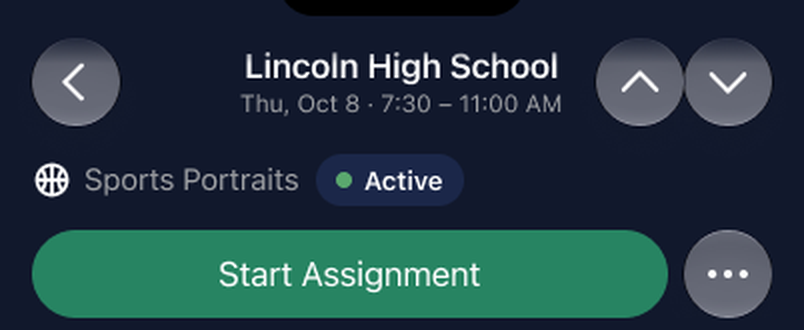
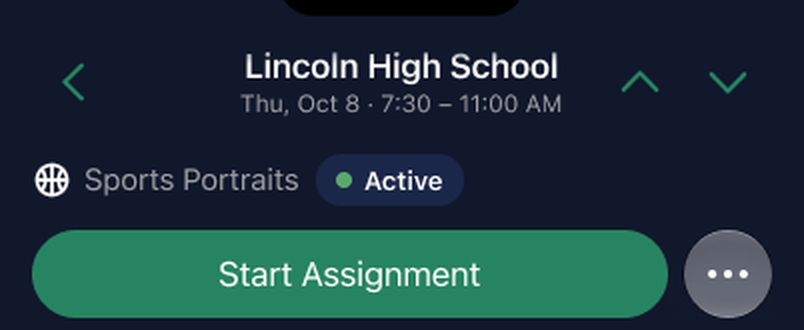
Nav buttons: no fill, accent glyphs (demo); design decisions change 9 rewritten
Claude-Session: https://claude.ai/code/session_019A1xMKmtKENcwVcnDpqGhs

Changed region(s): [[0.7152, 0.1212, 0.9639, 0.3939], [0.0311, 0.1212, 0.1555, 0.3939]]

diff --git a/web/design-decisions.html b/web/design-decisions.html
@@ -63,7 +63,7 @@ code{font:12.5px ui-monospace,SFMono-Regular,Menlo,monospace}
 <section class="pg sum"><h1>VIP Photographer App: design decisions</h1>
 <p class="by">Eight changes made to the Figma screens and the HTML demo, November 5 and 6, 2026. Each page gives the problem, the change, the rationale, the trade-off accepted, and old and new screenshots.</p>
 <p>The rationale on each page is what was discussed in the design sessions, with Alan making the call. Anything that was a judgement, such as breaking consistency, is called out as a trade-off. Measurements are from the Figma frames and the demo at phone size (874 pt screen); the claim that the secondary actions are rarely used on the day of the assignment is based on anecdotal feedback from stakeholders and has not been measured.</p>
-<div class="tw"><table><thead><tr><th>#</th><th>Change</th><th>Trade-off accepted</th><th>Decided by</th><th>Where</th></tr></thead><tbody><tr><td>1</td><td><a href="#c1">Secondary actions: menu behind the primary button, buttons when there is none</a></td><td>Urgent actions take two taps; location differs by day (consistency broken for coherence)</td><td>Alan</td><td>Figma, demo</td></tr><tr><td>2</td><td><a href="#c2">Header collapses on scroll</a></td><td>A quarter of the screen stays pinned; static, not animated</td><td>Alan</td><td>Figma, demo</td></tr><tr><td>3</td><td><a href="#c3">Icons on secondary actions</a></td><td>Decoration only; demo icons are look-alikes</td><td>Alan</td><td>Figma, demo</td></tr><tr><td>4</td><td><a href="#c4">Add note first on the Notes tab</a></td><td>Non-leads get no explanation</td><td>Alan</td><td>Figma, demo</td></tr><tr><td>5</td><td><a href="#c5">Section headings removed (demo)</a></td><td>Logged times card is unlabelled</td><td>Alan</td><td>Demo</td></tr><tr><td>6</td><td><a href="#c6">Map icon on Location row (demo)</a></td><td>None found</td><td>Alan</td><td>Demo</td></tr><tr><td>7</td><td><a href="#c7">Bordered button contrast</a></td><td>Light cards show outline only; override on two buttons, not the library</td><td>Alan</td><td>Figma, demo</td></tr><tr><td>8</td><td><a href="#c8">White label on green primary (Dark)</a></td><td>4.60:1 is a narrow pass; override on 68 labels</td><td>Alan</td><td>Figma</td></tr><tr><td>9</td><td><a href="#c9">Round icon buttons: darker fill (Dark)</a></td><td>Override on instances in the proposal frames, not the library; Light boundary still faint</td><td>Alan</td><td>Figma, demo</td></tr></tbody></table></div>
+<div class="tw"><table><thead><tr><th>#</th><th>Change</th><th>Trade-off accepted</th><th>Decided by</th><th>Where</th></tr></thead><tbody><tr><td>1</td><td><a href="#c1">Secondary actions: menu behind the primary button, buttons when there is none</a></td><td>Urgent actions take two taps; location differs by day (consistency broken for coherence)</td><td>Alan</td><td>Figma, demo</td></tr><tr><td>2</td><td><a href="#c2">Header collapses on scroll</a></td><td>A quarter of the screen stays pinned; static, not animated</td><td>Alan</td><td>Figma, demo</td></tr><tr><td>3</td><td><a href="#c3">Icons on secondary actions</a></td><td>Decoration only; demo icons are look-alikes</td><td>Alan</td><td>Figma, demo</td></tr><tr><td>4</td><td><a href="#c4">Add note first on the Notes tab</a></td><td>Non-leads get no explanation</td><td>Alan</td><td>Figma, demo</td></tr><tr><td>5</td><td><a href="#c5">Section headings removed (demo)</a></td><td>Logged times card is unlabelled</td><td>Alan</td><td>Demo</td></tr><tr><td>6</td><td><a href="#c6">Map icon on Location row (demo)</a></td><td>None found</td><td>Alan</td><td>Demo</td></tr><tr><td>7</td><td><a href="#c7">Bordered button contrast</a></td><td>Light cards show outline only; override on two buttons, not the library</td><td>Alan</td><td>Figma, demo</td></tr><tr><td>8</td><td><a href="#c8">White label on green primary (Dark)</a></td><td>4.60:1 is a narrow pass; override on 68 labels</td><td>Alan</td><td>Figma</td></tr><tr><td>9</td><td><a href="#c9">Back, previous, next: no fill, accent glyphs</a></td><td>Look less like buttons; Figma Dark accent is dim (3.83:1); override, not library</td><td>Alan</td><td>Figma, demo</td></tr></tbody></table></div>
 <p>Not yet tested: Dynamic Type at the largest sizes, VoiceOver, and a Figma frame for the assignment-day screen with the menu. Open library changes are in the Library change requests project doc.</p></section>
 <section class="pg" id="c1"><h2>1. Secondary actions: a menu behind the primary button, buttons when there is none</h2><dl class="meta"><dt>Problem</dt><dd>The pinned header was 350 pt tall, 40% of an 874 pt screen: type and status, the primary button, a row of 34 pt secondary buttons that wrapped (Timesheet dropped to a second line), and the tabs. Dynamic Type would make it taller still. On a future-dated assignment there is no primary button, so a menu alone would leave a lone &quot;…&quot; in an empty row.</dd><dt>Change</dt><dd>With a primary button, the header holds type and status, then one row with the primary button and a 44 × 44 pt More button, then the tabs. Can&#x27;t attend, Report issue and Timesheet move into the More menu (48 pt rows), and the Timesheet row card leaves the Details tab. With no primary button, Can&#x27;t attend and Report issue show as two 44 pt buttons side by side. Once an assignment is fully done, no secondary actions remain, so neither appears.</dd><dt>Options</dt><dd>(a) 44 pt buttons in one row, plus collapse on scroll: 318 pt at rest (36%), 224 pt scrolled (26%), but it grows as labels wrap at larger text sizes. (b) Always a menu: 256 pt (29%), 218 pt scrolled (25%), and the same height at any text size. (c) Visible before Start Assignment and a menu after: a row of Can&#x27;t attend and Report issue under the primary button, about 308 pt (35%) at rest, scrolling away to a 218 pt pinned header.</dd><dt>Rationale: menu</dt><dd>These actions are rarely used on the day of the assignment, so they should not take permanent space from the one action used every time. This is based on anecdotal feedback from stakeholders.</dd><dt>Rationale: buttons</dt><dd>With no primary button there is nothing for the actions to compete with, and there is room. A future assignment is also when cancelling matters most: a reassignment needs the most lead time.</dd><dt>The principle</dt><dd>Secondary actions never compete with the primary action. With a green primary button they sit behind a menu; without one they are shown. The same actions are in different places on different days, so consistency of location is broken on purpose, in favour of coherence: in every state the screen has one clear thing to do, and the lone &quot;…&quot; button would have hidden the only things left to do. (Wording drafted from the design discussion; to be confirmed by Alan.)</dd><dt>Trade-off</dt><dd>Can&#x27;t attend and Report issue are time-sensitive, and with a primary button they now take two taps and are not labelled on screen. The cost falls on few people. A person may also have to relearn where the actions are when a day changes state. Alan&#x27;s view is that urgent actions should be visible before the assignment starts, but in this design they are visible only the day before, when there is no primary button; from the assignment day until Start Assignment they are in the menu. Accepted to keep the header short. Fallback if testing shows they are hard to find: option (c), then (a), kept on the Figma proposal page as &quot;ALT visible row&quot;.</dd><dt>Decision</dt><dd>Alan chose the menu (b), and chose to show the buttons when there is no primary button. When asked whether to show the actions on the assignment day too (c), he kept the design as built.</dd><dt>Where</dt><dd>Figma: Proposal – Assignment header, including AFTER (no primary, future assignment). Demo: built. Evaluation: &quot;Proposal: Assignment header&quot;.</dd></dl><div class="row">Before</div><div class="ba"><figure><img src="decisions/img/hdr-before-light.png" alt="Light: 350 pt, Timesheet wraps"><figcaption>Light: 350 pt, Timesheet wraps</figcaption></figure><figure><img src="decisions/img/hdr-before-dark.png" alt="Dark"><figcaption>Dark</figcaption></figure></div><div class="row">Light: primary button, menu open, no primary</div><div class="ba"><figure><img src="decisions/img/hdr-menu-details-light.png" alt="With primary: 256 pt"><figcaption>With primary: 256 pt</figcaption></figure><figure><img src="decisions/img/hdr-menu-open-light.png" alt="Menu open"><figcaption>Menu open</figcaption></figure><figure><img src="decisions/img/hdr-nopri-light.png" alt="No primary: two buttons"><figcaption>No primary: two buttons</figcaption></figure></div><div class="row">Dark: the same three states</div><div class="ba"><figure><img src="decisions/img/hdr-menu-details-dark.png" alt="With primary"><figcaption>With primary</figcaption></figure><figure><img src="decisions/img/hdr-menu-open-dark.png" alt="Menu open"><figcaption>Menu open</figcaption></figure><figure><img src="decisions/img/hdr-nopri-dark.png" alt="No primary"><figcaption>No primary</figcaption></figure></div><div class="row">Demo, no primary</div><div class="ba"><figure><img src="decisions/img/demo-menuonly-light.png" alt="Before: empty row with only More"><figcaption>Before: empty row with only More</figcaption></figure><figure><img src="decisions/img/demo-nopri-light.png" alt="After: two buttons"><figcaption>After: two buttons</figcaption></figure></div></section>
 <section class="pg" id="c2"><h2>2. Header collapses on scroll</h2><dl class="meta"><dt>Problem</dt><dd>Even at 256 pt, the type and status row is not needed once the person has scrolled.</dd><dt>Change</dt><dd>The type and status row scrolls away. The primary row and the Details / Notes / Schedule tabs stay pinned: 218 pt in Figma, 215 px in the demo.</dd><dt>Options</dt><dd>Unpin the tabs: saves about 40 to 50 pt (5%), but switching views would mean scrolling back to the top, and Details is the long tab. Unpin the primary button: the pinned area drops to about 170 pt, but Start Assignment would scroll out of view.</dd><dt>Rationale</dt><dd>The tabs are the cheapest element and the one most likely to hurt if unpinned; the primary action is the one that must stay reachable.</dd><dt>Tradeoff</dt><dd>A pinned area of about a quarter of the screen remains. It collapses as a static state, not an animation.</dd><dt>Decision</dt><dd>Alan asked for the collapse in the demo after discussing the options.</dd><dt>Where</dt><dd>Figma: scrolled frames. Demo: built.</dd></dl><div class="row">Light and Dark</div><div class="ba "><figure><img src="decisions/img/hdr-before-light.png" alt="Before: pinned at 350 pt"><figcaption>Before: pinned at 350 pt</figcaption></figure><figure><img src="decisions/img/hdr-menu-scrolled-light.png" alt="After, scrolled (Light)"><figcaption>After, scrolled (Light)</figcaption></figure><figure><img src="decisions/img/hdr-menu-scrolled-dark.png" alt="After, scrolled (Dark)"><figcaption>After, scrolled (Dark)</figcaption></figure></div></section>
@@ -73,5 +73,5 @@ code{font:12.5px ui-monospace,SFMono-Regular,Menlo,monospace}
 <section class="pg" id="c6"><h2>6. Demo: map icon on the Location row</h2><dl class="meta"><dt>Problem</dt><dd>The demo showed a caret on the Location row. The PRD says &quot;Location, with an icon showing it is tappable&quot;, and Figma shows a map icon. The caret had been in the demo since its first commit.</dd><dt>Change</dt><dd>A map icon in the accent color, and the subtitle &quot;Location · opens Maps&quot; as in Figma. Tapping still opens the map picker.</dd><dt>Tradeoff</dt><dd>None found. The icon is a hand-drawn SVG that approximates SF Symbol map.</dd><dt>Decision</dt><dd>Alan noticed the difference.</dd><dt>Where</dt><dd>Demo only.</dd></dl><div class="row">Demo, Light</div><div class="ba"><figure><img class="crop" src="decisions/img/demo-caret-light.png" alt="Before: caret"><figcaption>Before: caret</figcaption></figure><figure><img class="crop" src="decisions/img/demo-map-light.png" alt="After: map icon"><figcaption>After: map icon</figcaption></figure></div></section>
 <section class="pg" id="c7"><h2>7. Button contrast: bordered fill</h2><dl class="meta"><dt>Problem</dt><dd>Green label text on the translucent grey bordered button measured 4.2:1 in Dark (on a card) and about 4.4:1 in Light, below the 4.5:1 AA target (findings 6 and 20).</dd><dt>Change</dt><dd>Figma proposal buttons: Dark fill 24% to 16% (label 5.1:1), Light fill 12% to 8% (4.65:1). Demo, Light only: bordered buttons are white with a hairline border (5.11:1), because no grey tint reaches 4.5:1 on the grey page. Demo Dark already passed.</dd><dt>Rationale</dt><dd>Lowering the fill keeps the grey button look and fixes the Dark half of finding 20.</dd><dt>Tradeoff</dt><dd>In Light, a bordered button inside a white card now reads as an outline. The Figma change is an override on the two proposal buttons only, because the Button component is in a library. Plain rows (Take photo, Choose from library) are not fixed by this; they need a lighter accent-text token. See the Library change requests doc.</dd><dt>Decision</dt><dd>Alan approved the fills.</dd><dt>Where</dt><dd>Figma: proposal frames. Demo: Light bordered buttons.</dd></dl><div class="row">Figma, Dark</div><div class="ba"><figure><img src="decisions/img/fig-fill24-dark.png" alt="Before: 24%"><figcaption>Before: 24%</figcaption></figure><figure><img src="decisions/img/fig-fill16-dark.png" alt="After: 16%"><figcaption>After: 16%</figcaption></figure></div><div class="row">Figma, Dark: the two buttons, zoomed</div><div class="ba"><figure><img class="crop zoom" src="decisions/img/zoom-fill24.png" alt="Before: 24% fill. Label 4.6:1 on the header, about 4.2:1 on a card"><figcaption>Before: 24% fill. Label 4.6:1 on the header, about 4.2:1 on a card</figcaption></figure><figure><img class="crop zoom" src="decisions/img/zoom-fill16.png" alt="After: 16% fill, darker. Label 5.1:1 on the header, about 4.7:1 on a card"><figcaption>After: 16% fill, darker. Label 5.1:1 on the header, about 4.7:1 on a card</figcaption></figure></div><div class="row">Figma, Light</div><div class="ba"><figure><img src="decisions/img/fig-fill12-light.png" alt="Before: 12%"><figcaption>Before: 12%</figcaption></figure><figure><img src="decisions/img/fig-fill8-light.png" alt="After: 8%"><figcaption>After: 8%</figcaption></figure></div><div class="row">Demo, Light (Pay rates)</div><div class="ba"><figure><img class="crop" src="decisions/img/demo-tint-light.png" alt="Before: tinted"><figcaption>Before: tinted</figcaption></figure><figure><img class="crop" src="decisions/img/demo-white-light.png" alt="After: white with hairline"><figcaption>After: white with hairline</figcaption></figure></div></section>
 <section class="pg" id="c8"><h2>8. Dark mode: white label on the green primary button</h2><dl class="meta"><dt>Problem</dt><dd>In Figma Dark the primary button label was black, because the Brand/On Accent token is black in Dark. The demo and Figma Light use white.</dd><dt>Change</dt><dd>The labels on the green fill use the Light value of Brand/On Accent, so they are white. 68 labels changed (Dark prototype page 42, Assignment Details 16, proposal page 10). The token binding is kept.</dd><dt>Rationale</dt><dd>White gives 4.60:1 on #278462; black gives about 4.5:1. Both pass; white matches the demo and Alan&#x27;s preference.</dd><dt>Tradeoff</dt><dd>A narrow pass. About 60 other labels on the lighter selected-tab fill stay black because white there is unmeasured. The clean fix is white in the library token; see the Library change requests doc.</dd><dt>Decision</dt><dd>Alan preferred white.</dd><dt>Where</dt><dd>Figma: Dark screens.</dd></dl><div class="row">Figma, Dark: Start Assignment</div><div class="ba"><figure><img src="decisions/img/fig-label-black-dark.png" alt="Before: black label"><figcaption>Before: black label</figcaption></figure><figure><img src="decisions/img/fig-label-white-dark.png" alt="After: white label (4.60:1)"><figcaption>After: white label (4.60:1)</figcaption></figure></div><div class="row">Zoomed on the button</div><div class="ba"><figure><img class="crop zoom" src="decisions/img/zoom-label-black.png" alt="Before: black on #278462 (about 4.5:1)"><figcaption>Before: black on #278462 (about 4.5:1)</figcaption></figure><figure><img class="crop zoom" src="decisions/img/zoom-label-white.png" alt="After: white on #278462 (4.60:1)"><figcaption>After: white on #278462 (4.60:1)</figcaption></figure></div></section>
-<section class="pg" id="c9"><h2>9. Dark mode: darker fill on the round icon buttons</h2><dl class="meta"><dt>Problem</dt><dd>The More, back, previous and next buttons used a translucent glass fill. In Dark the More button&#x27;s white glyph measured 3.57:1, and the other three had a fill only 3.2–3.5:1 against the page.</dd><dt>Change</dt><dd>The Dark fill is now a solid #656875 on all four buttons (shadows kept). Measured from screenshots: white glyph 5.5–6.9:1; fill against the page about 3:1. The demo uses the same colour for Dark round buttons.</dd><dt>Rationale</dt><dd>Same reasoning as the bordered buttons (change 7): a darker fill gives the white glyph more contrast and a clearer edge.</dd><dt>Tradeoff</dt><dd>Solid fill replaces the glass look in Dark. It is an override on instances in the proposal frames; the library component is unchanged. Light is unchanged: glyph 12.5:1, but the fill is nearly the page colour (about 1.03:1), so the edge relies on the shadow.</dd><dt>Decision</dt><dd>Alan asked for the same treatment as the bordered buttons.</dd><dt>Where</dt><dd>Figma: Dark proposal frames. Demo: Dark round buttons.</dd></dl><div class="row">Figma, Dark: header buttons</div><div class="ba"><figure><img class="crop zoom" src="decisions/img/zoom-circle-before.png" alt="Before: glass fill"><figcaption>Before: glass fill (More 3.57:1)</figcaption></figure><figure><img class="crop zoom" src="decisions/img/zoom-circle-after.png" alt="After: solid #656875"><figcaption>After: solid #656875 (5.5:1 or more)</figcaption></figure></div></section>
+<section class="pg" id="c9"><h2>9. Back, previous and next: no fill, accent glyphs</h2><dl class="meta"><dt>Problem</dt><dd>The back, previous, next and More buttons used a translucent glass fill. In Dark the More glyph measured 3.57:1 and the other three had a fill only 3.2–3.5:1 against the page. Darkening the fill fixed contrast but needed a Figma-only override that SwiftUI would not reproduce. Once the glass is removed, the up and down arrows could also read as decoration.</dd><dt>Change</dt><dd>Back, previous and next have no background. Their glyphs use the accent colour, the same as the map and phone icons, so they read as tappable. They keep their 44 pt hit areas and dim when disabled (first or last assignment). More keeps its circle, with a solid #656875 fill in Dark (white glyph 5.97:1), because it sits beside the large green button and would otherwise look like stray dots.</dd><dt>Rationale</dt><dd>On a solid pinned header the glass adds no legibility, so a fill is not needed. The accent colour is the app&#x27;s one signal for &quot;tappable&quot; on plain rows. Glyph contrast: Figma Dark 3.83:1, Figma Light 4.60:1 (both pass the 3:1 non-text minimum); demo Dark 9.4:1, demo Light 5.11:1.</dd><dt>Tradeoff</dt><dd>Plain glyphs look less like buttons than circles. The Figma Dark accent (#278462) is the library value and is dimmer than the demo&#x27;s #80CCB1; see the Library change requests doc. The Figma changes are overrides on the proposal frames only. The demo applies the plain style to every toolbar back button; other Figma screens still show the glass back button.</dd><dt>Decision</dt><dd>Alan agreed with removing the fill and asked how to keep the arrows from looking like decoration.</dd><dt>Where</dt><dd>Figma: proposal frames, Light and Dark. Demo: toolbar buttons.</dd></dl><div class="row">Figma, Dark: header buttons</div><div class="ba"><figure><img class="crop zoom" src="decisions/img/zoom-circle-before.png" alt="Before: glass fill"><figcaption>Before: glass fill (More glyph 3.57:1)</figcaption></figure><figure><img class="crop zoom" src="decisions/img/zoom-circle-after.png" alt="After: plain accent glyphs"><figcaption>After: plain accent glyphs; More solid #656875</figcaption></figure></div></section>
 </main></body></html>

diff --git a/web/demo.css b/web/demo.css
@@ -304,3 +304,8 @@ body.full .side { top: 40px; left: max(24px, calc(50% - 215px - 336px)); }
 
 /* Dark: round icon buttons (back, prev/next, More) use the same darker fill as Figma proposal: white glyph >=5.4:1, fill vs page ~3:1 */
 .phone[data-mode="dark"] .circle-btn { background: #656875; color: #fff; box-shadow: 0 1px 4px rgba(0,0,0,.35); }
+
+/* Nav buttons (back, previous, next) are plain accent glyphs with no fill; the More button keeps its circle. Hit area stays 44/40pt. */
+.phone .toolbar .circle-btn { background: none; box-shadow: none; color: var(--accent-text); }
+.phone .toolbar .circle-btn svg { stroke-width: 2.6; }
+.phone .toolbar .circle-btn:disabled { opacity: .4; }
